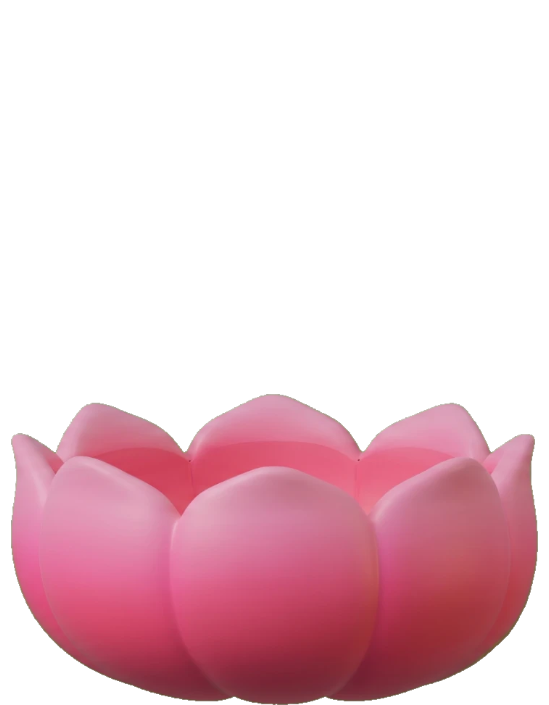
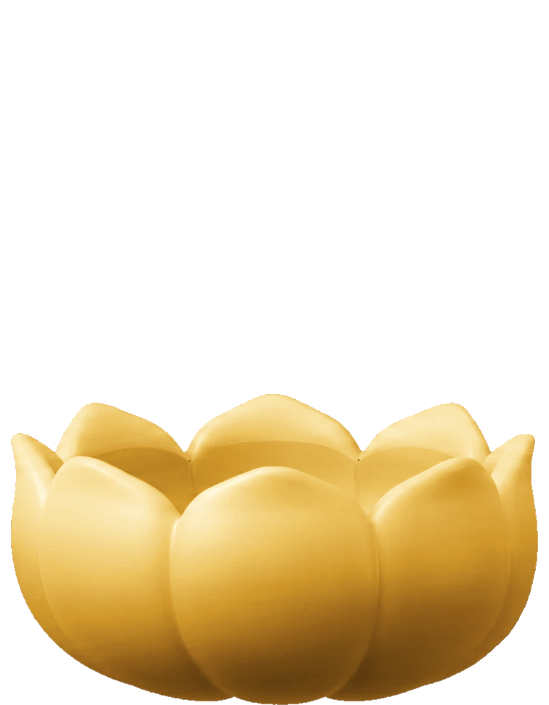
물음은 재서 줄이고, 키캡은 잘라서 담는다
· 물음이 잘리던 까닭 둘 —
  ① 굴림통에 justify-content:center. 가운데 맞춤은 속이 넘칠 때 윗머리를
     통 **밖으로** 밀고, 밀려난 자리는 굴려도 못 잡는다. 첫 줄을 아예
     못 읽었다. 자동 여백(margin:auto)으로 바꾼다 — 남을 때만 벌어지고
     모자라면 위에서부터 쌓인다.
  ② 크기를 글자 수 세 등급으로만 골랐다. 등급은 화면을 안 본다.
     등급은 첫 어림으로 두고, 그린 뒤 **정말 넘치는지 재서** 넘치는
     동안만 한 뼘(7%)씩 줄인다. 안 넘치면 한 번도 안 줄인다.
     글꼴이 늦게 와도(document.fonts.ready) 다시 잰다.

· 키캡 — 몸과 그릇을 그냥 포개니 몸이 그릇보다 넓은 자리에서 옆으로
  샜다. 그림을 한 줄씩 재서 **그릇이 몸을 좌우로 다 덮기 시작하는 줄**을
  찾고(동자 69.4 · 포대 63.8 · 미륵 64.1%), 몸은 그 줄까지만 그린다.
  자른 선은 늘 그릇 화소 뒤라 안 보인다.
· 포대승·불상 받침은 금색. 분홍의 밝기를 그대로 두고 빛깔만 옮겼다.

diff --git a/src/app/HipGarden.tsx b/src/app/HipGarden.tsx
@@ -25,6 +25,7 @@
 // 쥐고 있고 여기는 받아 그린다 — 통째로 지워도 앱은 예전대로 돈다.
 // ─────────────────────────────────────────────────────────────
 
+import { useEffect, useRef } from "react";
 import Link from "next/link";
 import HipShell from "@/components/HipShell";
 import HipTop from "@/components/HipTop";
@@ -40,6 +41,59 @@ function qSize(q: string): "a" | "b" | "c" {
   if (w <= 15 && all <= 34) return "a";
   if (w <= 22 && all <= 60) return "b";
   return "c";
+}
+
+/** 물음 한 덩이 — 크기를 **재서 맞춘다.**
+ *
+ *  형: 「이거 짤린다고 다시」 「글자가 길어지면 그런 듯. 고민해봐,
+ *       폰트를 줄이든 그런 경우」
+ *
+ *  글자 수로 세 등급(a·b·c)만 두고 있었다. 등급은 **글자 수**를 보지
+ *  화면을 안 본다 — 같은 c 라도 좁은 폰에서는 다섯 줄이 되고, 다섯
+ *  줄이면 윗줄이 머리띠 뒤로 잘린다. 그러면 첫 줄을 아예 못 읽는다.
+ *
+ *  등급은 **첫 어림**으로만 두고, 그린 뒤에 **정말 넘치는지 재서**
+ *  넘치는 동안만 한 뼘씩 줄인다. 넘치지 않으면 한 번도 안 줄인다 —
+ *  짧은 물음은 여전히 크다. 글꼴이 늦게 와서 줄 수가 바뀌어도
+ *  (document.fonts.ready) 다시 잰다.
+ */
+function Q({ question, source }: { question: string; source?: string | null }) {
+  const 자 = useRef<HTMLParagraphElement>(null);
+
+  useEffect(() => {
+    const el = 자.current;
+    const 통 = el?.parentElement;
+    if (!el || !통) return;
+
+    const 맞추기 = () => {
+      // 등급이 준 크기로 되돌린 뒤 다시 잰다 — 안 그러면 한 번 줄어든
+      // 글자가 짧은 물음으로 바뀌어도 그대로 작게 남는다
+      el.style.fontSize = "";
+      let 크기 = parseFloat(getComputedStyle(el).fontSize);
+      let n = 0;
+      // 통이 제 그릇을 넘는 동안만. 서른 번이면 어떤 길이든 든다
+      while (통.scrollHeight > 통.clientHeight + 1 && 크기 > 15 && n++ < 30) {
+        크기 *= 0.93;
+        el.style.fontSize = `${크기.toFixed(1)}px`;
+      }
+    };
+
+    맞추기();
+    // 글꼴이 늦게 오면 줄 수가 바뀐다
+    document.fonts?.ready.then(맞추기).catch(() => {});
+    const ro = new ResizeObserver(맞추기);
+    ro.observe(통);
+    return () => ro.disconnect();
+  }, [question, source]);
+
+  return (
+    <>
+      <p ref={자} className={`hip-q hip-q-${qSize(question)}`}>
+        {question}
+      </p>
+      {source && <p className="hip-q-by">{source}</p>}
+    </>
+  );
 }
 
 /** 며칠째 품고 있나 — 우리말로. 시안의 「사흘째 품는 중」 그 자리다.
@@ -226,12 +280,11 @@ export function HipGardenOnly({
   question: string;
   onBack: () => void;
 }) {
-  const size = qSize(question);
   return (
     <div className="hip-screen hip-hanji hip-only">
       <span aria-hidden className="hip-bloom hip-bloom-a" />
       <div className="hip-screen-mid">
-        <p className={`hip-q hip-q-${size}`}>{question}</p>
+        <Q question={question} />
       </div>
       {/* 형: 「이거도 살짝 어긋난 동그라미 버튼으로」.
           물음만 보기로 들어온 자리와 나가는 자리가 같은 몸짓이라야 한다 */}
@@ -279,7 +332,6 @@ export function HipGardenHolding({
   dayOptions?: number[];
   onDays?: (d: number) => void | Promise<void>;
 }) {
-  const size = qSize(question);
   return (
     <HipShell here="/">
       <div className="hip-screen hip-hanji">
@@ -297,8 +349,7 @@ export function HipGardenHolding({
 
         <div className="hip-screen-mid">
           {/* 큰 것 하나 — 오브제가 아니라 **물음**이다 */}
-          <p className={`hip-q hip-q-${size}`}>{question}</p>
-          {source && <p className="hip-q-by">{source}</p>}
+          <Q question={question} source={source} />
           {/* 형: 「내려」 — ○ 를 머리에서 물음 바로 아래로.
               머리 오른쪽에는 이미 넷(연꽃·음소거·쪽지·我)이 서 있어서
               ○ 가 다섯째로 묻혔다. 「물음만 보기」는 **물음에 딸린 일**이니

diff --git a/src/app/hip.css b/src/app/hip.css
@@ -811,9 +811,16 @@ html[data-theme="light"] {
     display: flex;
     flex-direction: column;
     align-items: center;
-    justify-content: center;
+    /* **justify-content: center 가 아니다.**
+       굴림통에서 가운데 맞춤은 속이 넘칠 때 윗머리를 통 **밖으로**
+       밀어내고, 밀려난 자리는 굴려도 못 잡는다 — 첫 줄을 아예 못
+       읽는다(형: 「이거 짤린다고」). 자동 여백으로 가운데를 맞추면
+       남을 때만 벌어지고, 모자라면 위에서부터 차곡차곡 쌓인다. */
+    justify-content: flex-start;
     padding-bottom: 2vh;
   }
+  .hip-screen-mid > :first-child { margin-top: auto; }
+  .hip-screen-mid > :last-child { margin-bottom: auto; }
   .hip-screen-mid::-webkit-scrollbar { display: none; }
   .hip-big {
     font-variant-numeric: tabular-nums;
@@ -4081,7 +4088,7 @@ html[data-theme="light"] {
        여기서 자르면 물건 바닥에서 딱 잘린다 */
     overflow: hidden;
   }
-  .hip-keycap-stack img {
+  .hip-keycap-stack > img {
     position: absolute;
     inset: 0;
     width: 100%;
@@ -4089,6 +4096,7 @@ html[data-theme="light"] {
     object-fit: contain;
     display: block;
   }
+  .hip-keycap-well img { display: block; }
   /* 그늘은 **없다.** 형: 「허접한 인상을 주지 마, 아예 그림자는 지우고」
      연꽃 밑에 분홍 그늘을 깔아 두었더니, 흰 판에서 잿빛 얼룩 한 덩이로
      보였다. 물건은 판 위에 그냥 놓여 있으면 된다. */
@@ -4108,6 +4116,34 @@ html[data-theme="light"] {
   /* 몸은 뒤(1), 받침은 앞(2). 누르면 **몸만** 그릇 속으로 내려간다 —
      받침은 한 화소도 안 움직인다(형: 「받침은 그대로 있도록」).
      몸이 온몸 통짜라, 내려가도 빈 데가 안 생긴다. */
+  /* ── 창(well) — 몸이 보이는 자리 ──────────────────────
+     형: 「정말 정면에서 본 키캡 눌리는 거 못 만드나, 안 삐져나오게」
+
+     창의 밑변은 **그릇이 몸을 좌우로 다 덮기 시작하는 줄**이다
+     (--keycap-rim, 그림에서 한 줄씩 재서 찾았다). 그 아래로 몸은
+     한 화소도 안 그려진다 — 옆으로 새거나 그릇을 스쳐 지나갈 길이
+     아예 없다. 눌러 내려가면 몸이 그 줄에서 **먹히듯 사라지고**,
+     그릇이 그 위를 제 모양대로 덮는다. 앞에서 본 그릇이라 속이 안
+     보이니, 사라지는 것이 곧 「들어간다」로 읽힌다. */
+  .hip-keycap-well {
+    position: absolute;
+    left: 0;
+    right: 0;
+    top: 0;
+    height: calc(var(--keycap-rim, 66) * 1%);
+    overflow: hidden;
+    z-index: 1;
+  }
+  .hip-keycap-well .hip-keycap-buddha {
+    position: absolute;
+    left: 0;
+    top: 0;
+    width: 100%;
+    /* 창은 판의 rim% 만 하다. 그림은 **판 높이 그대로** 그려야 그릇과
+       화소가 맞으므로, 창 기준으로 되돌려 잡는다(100/rim 배) */
+    height: calc(10000% / var(--keycap-rim, 66));
+    object-fit: contain;
+  }
   .hip-keycap-buddha {
     z-index: 1;
     transform-origin: 50% 100%;
@@ -4120,7 +4156,7 @@ html[data-theme="light"] {
   /* 앞에서 본 그릇이라 속이 안 보인다 — 뒤로 내려가는 만큼이 그대로
      「들어간다」로 읽힌다. 가릴 걱정이 없으니 넉넉히 보낸다 */
   .hip-keycap.on .hip-keycap-buddha {
-    transform: translateY(16%);
+    transform: translateY(19%);
     transition: transform 0.07s cubic-bezier(0.3, 0, 0.2, 1);
   }
   /* 한 장짜리 시절의 「통째로 찌그러뜨리기」는 걷는다 */
@@ -4141,7 +4177,7 @@ html[data-theme="light"] {
     display: flex;
     justify-content: center;
   }
-  .hip-keycap img { width: 100%; height: 100%; max-width: none; max-height: none; }
+  .hip-keycap-stack > img { width: 100%; height: 100%; max-width: none; max-height: none; }
 }
 
 /* ── 담기 띠는 자리를 나눈다 ───────────────────────────────────

diff --git a/src/app/moktak/HipMoktak.tsx b/src/app/moktak/HipMoktak.tsx
@@ -70,7 +70,7 @@ export type HipMoktakProps = {
   /** 지금 고른 목탁 살갗 그림 */
   mokSrc: string;
   /** 지금 고른 키캡 — 통짜 한 장 */
-  keySrc: { src: string; cup: string; ar: number };
+  keySrc: { src: string; cup: string; ar: number; rim: number };
   /** 키캡 갈래에서 무엇을 누르나 — 동자인가 목탁인가 */
   bead: React.ReactNode;
   bowl: React.ReactNode;
@@ -267,11 +267,31 @@ export default function HipMoktak({
                   className="hip-keycap-stack"
                   /* 숫자 그대로 넘기면 리액트가 px 를 붙인다 —
                      aspect-ratio: 0.57px 는 무효라 판이 풀린다 */
-                  style={{ "--keycap-ar": String(keySrc.ar) } as React.CSSProperties}
+                  style={
+                    {
+                      "--keycap-ar": String(keySrc.ar),
+                      "--keycap-rim": String(keySrc.rim),
+                    } as React.CSSProperties
+                  }
                 >
-                  {/* 몸이 뒤, 받침이 앞. 누르면 몸만 그릇 속으로 내려간다 */}
-                  {/* eslint-disable-next-line @next/next/no-img-element */}
-                  <img className="hip-keycap-buddha" src={keySrc.src} alt="" draggable={false} />
+                  {/* ── 몸은 **그릇 안에서만** 보인다 ─────────────
+                      형: 「정말 정면에서 본 키캡 눌리는 거 못 만드나,
+                           안 삐져나오게」
+
+                      여태 몸과 그릇을 그냥 포개 두었다. 그러니 몸이
+                      그릇보다 넓은 자리(포대승의 배, 동자의 어깨)에서
+                      옆으로 삐져나왔고, 누르면 그 삐져나온 살이 같이
+                      내려가 「그릇 옆을 스쳐 지나가는」 것으로 읽혔다.
+
+                      몸을 **창(well)** 안에 넣는다. 창 밑변은 그릇이
+                      몸을 좌우로 완전히 덮기 시작하는 줄(--keycap-rim,
+                      그림에서 한 줄씩 재서 찾았다)이다. 그 아래로는
+                      몸이 한 화소도 안 그려진다 — 삐져나올 수가 없다.
+                      그릇은 창 밖에서 제 모양대로 앞에 선다. */}
+                  <span className="hip-keycap-well">
+                    {/* eslint-disable-next-line @next/next/no-img-element */}
+                    <img className="hip-keycap-buddha" src={keySrc.src} alt="" draggable={false} />
+                  </span>
                   {/* eslint-disable-next-line @next/next/no-img-element */}
                   <img className="hip-keycap-cup" src={keySrc.cup} alt="" draggable={false} />
                 </span>

diff --git a/src/app/moktak/page.tsx b/src/app/moktak/page.tsx
@@ -197,13 +197,17 @@ const SKINS = {
   // 여태 한 장을 갈라 쓰느라 애를 먹었다 — 자른 선이 곧 이격이었다.
   // 이제 처음부터 두 물건이라 자를 일이 없다. 받침이 앞(z 2), 몸이 뒤(z 1).
   // 몸은 온몸이 다 있으니 그릇 속으로 내려가도 빈 데가 안 생긴다.
+  // `rim` — 그릇이 몸을 **좌우로 완전히 덮기 시작하는 줄**(판 높이의 %).
+  // 그림에서 한 줄씩 재서 찾았다: 그 줄부터 아래로는 몸의 어느 화소도
+  // 그릇 밖으로 안 나온다. 몸은 그 줄까지만 그린다 — 삐져나올 수가 없다.
+  //   동자 470/677 · 포대 475/745 · 미륵 452/705
   keycap: [
     { id: "dongja", name: "동자", src: "/obj/keycap-dongja.png",
-      cup: "/obj/keycap-dongja-cup.png", ar: 450 / 677, dot: "#ef86b0" },
+      cup: "/obj/keycap-dongja-cup.png", ar: 450 / 677, rim: 69.4, dot: "#ef86b0" },
     { id: "podae", name: "포대", src: "/obj/keycap-podae.png",
-      cup: "/obj/keycap-podae-cup.png", ar: 587 / 745, dot: "#d9a06f" },
+      cup: "/obj/keycap-podae-cup.png", ar: 587 / 745, rim: 63.8, dot: "#e0b354" },
     { id: "mireuk", name: "미륵", src: "/obj/keycap-mireuk.png",
-      cup: "/obj/keycap-mireuk-cup.png", ar: 549 / 705, dot: "#cfa03c" },
+      cup: "/obj/keycap-mireuk-cup.png", ar: 549 / 705, rim: 64.1, dot: "#cfa03c" },
   ],
 } as const;
 
@@ -288,7 +292,7 @@ export default function MoktakPage() {
   /** 키캡 한 장 — 통짜 그대로 */
   const keySrc = (() => {
     const k = SKINS.keycap.find((x) => x.id === skin.keycap) ?? SKINS.keycap[0];
-    return { src: 그림(k.src), cup: 그림(k.cup), ar: k.ar };
+    return { src: 그림(k.src), cup: 그림(k.cup), ar: k.ar, rim: k.rim };
   })();
   /** 지금 고른 염주 살갗이 **가로형**(3D 로 구운 누운 고리)인가 */
   const beadWide = (
